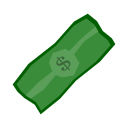
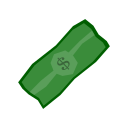
Faster reels, nicer graphics.

diff --git a/src/drum.hpp b/src/drum.hpp
@@ -7,8 +7,8 @@ class Drum : public sf::Drawable, public sf::Transformable {
     Drum(
       const std::vector<const sf::Texture*>& textures,
       std::size_t picture_count,
-      float max_velocity = 1500.0f,
-      float acceleration = 4000.0f
+      float max_velocity = 2000.0f,
+      float acceleration = 8000.0f
     );
 
     void start();
